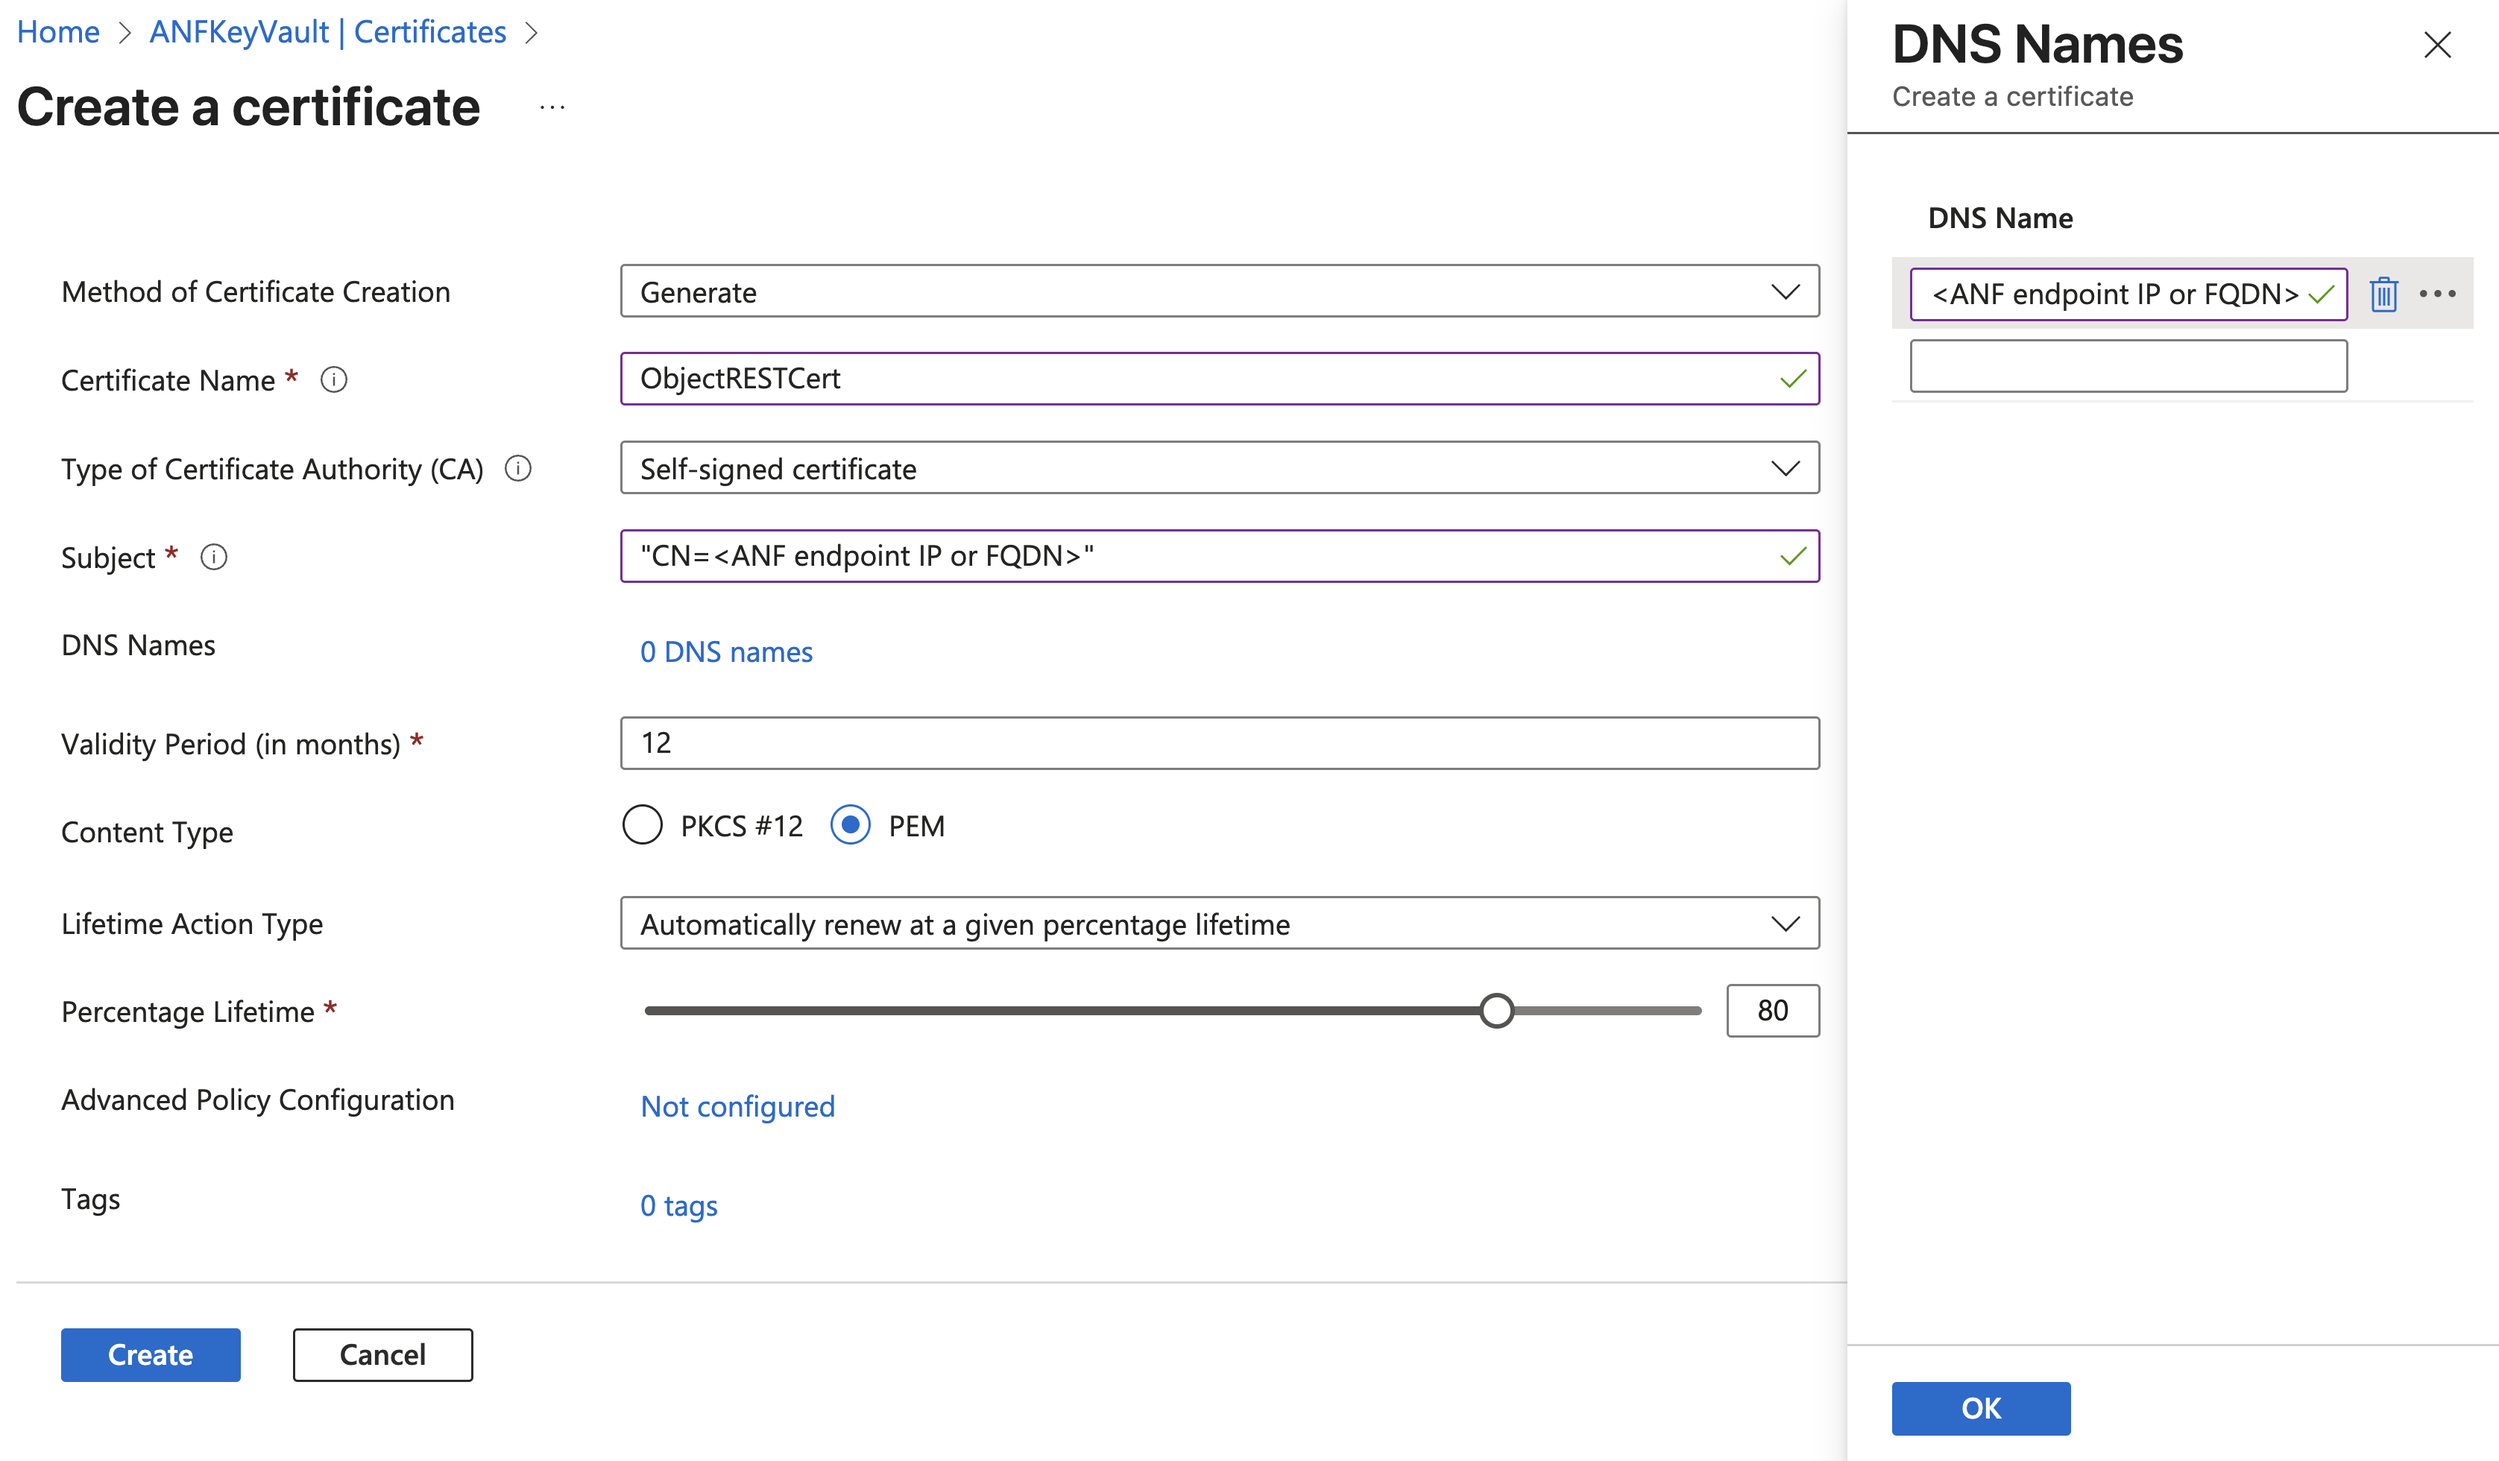
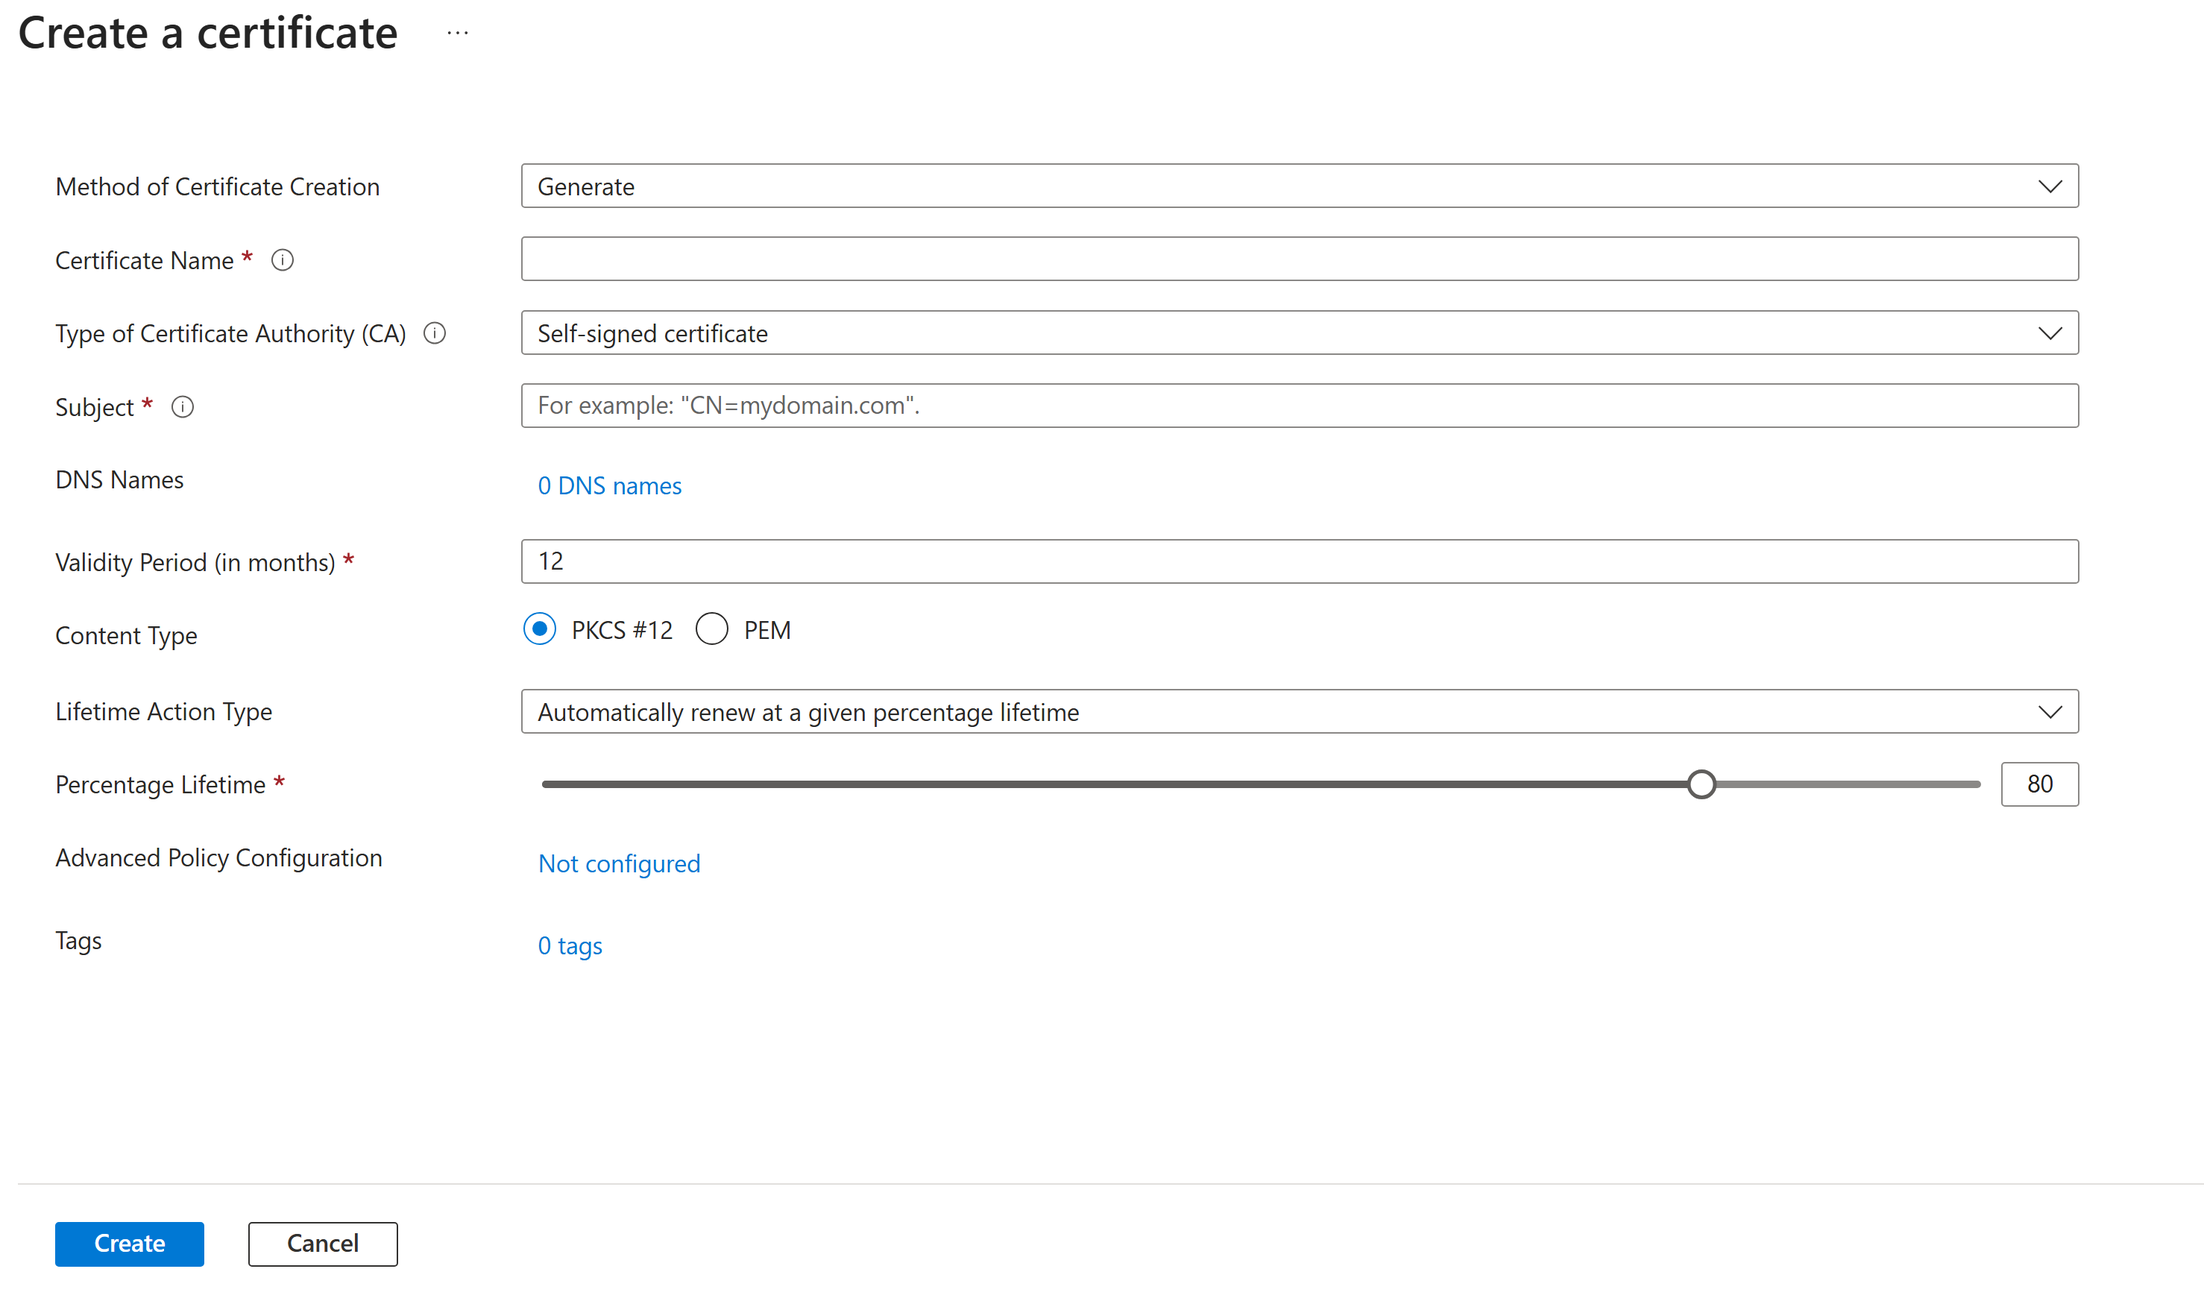
Updating content for JIRA

diff --git a/articles/azure-netapp-files/object-rest-api-access-configure.md b/articles/azure-netapp-files/object-rest-api-access-configure.md
@@ -5,7 +5,7 @@ services: azure-netapp-files
 author: b-ahibbard
 ms.service: azure-netapp-files
 ms.topic: how-to
-ms.date: 10/29/2025
+ms.date: 02/16/2026
 ms.author: anfdocs
 ---
 
@@ -29,7 +29,7 @@ See the [Azure Key Vault documentation for adding a certificate to Key Vault](/a
 
 When creating the certificate, ensure:
 
-* the **Content Type** is set to PEM
+* the **Content Type** is set to PKCS#12
 * the **Subject** field is set to the IP address or fully qualified domain name (FQDN) of your Azure NetApp Files endpoint using the format `"CN=<IP or FQDN>"`
 * the **DNS Names** entry specifies the IP address or FQDN
 
